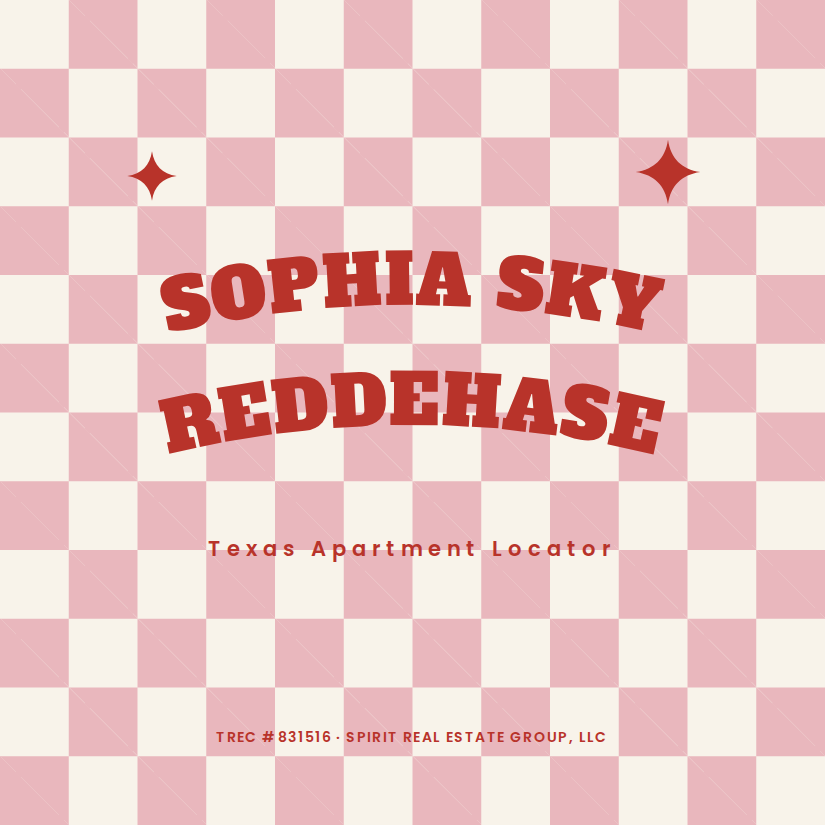
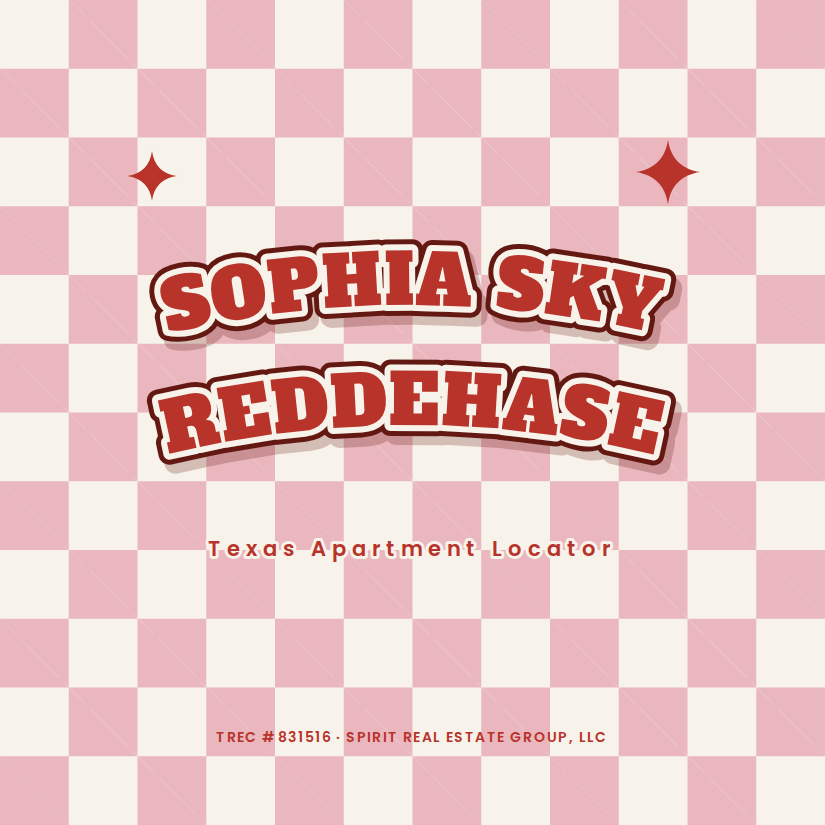
Sticker-build the wordmarks the first contrast pass missed
That pass only matched a wordmark written as one stroked group. The warped
cards draw the name as a shadow group plus a face group, and the gingham cards
use arced textPaths, so neither matched -- and those were exactly the ones still
blending: olive green on orange checks, red on pink gingham.

Both now get the same four-layer build as the rest (cast shadow, dark keyline,
light halo, coloured face), so the letterform keeps a hard edge whichever square
sits behind it. The gingham role line, red on pink at roughly 3.4:1, gets the
cream halo too.

Claude-Session: https://claude.ai/code/session_011qu4FuRugYoyL33SPjMiTo

diff --git a/business_cards/cards_v2/13_exact_gingham_square/front.html b/business_cards/cards_v2/13_exact_gingham_square/front.html
@@ -41,13 +41,32 @@
         <path id="arcB" d="M 112 470 Q 412 380 712 470" fill="none"/>
       </defs>
 
-      <g font-family="Alfa Slab One" font-size="70" fill="#b8332a" letter-spacing="1.5">
+      <g font-family="Alfa Slab One" font-size="70" letter-spacing="1.5">
+        <g stroke="#631812" stroke-width="22" fill="#631812" opacity="0.24"
+           stroke-linejoin="round" paint-order="stroke" transform="translate(6,9)">
         <text><textPath href="#arcA" startOffset="50%" text-anchor="middle">SOPHIA SKY</textPath></text>
         <text><textPath href="#arcB" startOffset="50%" text-anchor="middle">REDDEHASE</textPath></text>
+        </g>
+        <g stroke="#631812" stroke-width="22" fill="#631812"
+           stroke-linejoin="round" paint-order="stroke">
+        <text><textPath href="#arcA" startOffset="50%" text-anchor="middle">SOPHIA SKY</textPath></text>
+        <text><textPath href="#arcB" startOffset="50%" text-anchor="middle">REDDEHASE</textPath></text>
+        </g>
+        <g stroke="#f8f3ea" stroke-width="12" fill="#f8f3ea"
+           stroke-linejoin="round" paint-order="stroke">
+        <text><textPath href="#arcA" startOffset="50%" text-anchor="middle">SOPHIA SKY</textPath></text>
+        <text><textPath href="#arcB" startOffset="50%" text-anchor="middle">REDDEHASE</textPath></text>
+        </g>
+        <g fill="#b8332a">
+        <text><textPath href="#arcA" startOffset="50%" text-anchor="middle">SOPHIA SKY</textPath></text>
+        <text><textPath href="#arcB" startOffset="50%" text-anchor="middle">REDDEHASE</textPath></text>
+        </g>
       </g>
 
       <text x="412" y="556" text-anchor="middle"
-            font-family="Poppins" font-weight="600" font-size="21" letter-spacing="6" fill="#b8332a">Texas Apartment Locator</text>
+            font-family="Poppins" font-weight="600" font-size="21" letter-spacing="6"
+            stroke="#f8f3ea" stroke-width="6" stroke-linejoin="round" paint-order="stroke"
+            fill="#b8332a">Texas Apartment Locator</text>
 
       <g fill="#b8332a">
         <path transform="translate(126,150) scale(1.3)" d="M20 1 C21.6 12 28 18.4 39 20 C28 21.6 21.6 28 20 39 C18.4 28 12 21.6 1 20 C12 18.4 18.4 12 20 1 Z"/>

diff --git a/business_cards/cards_v2/9_pink_gingham/front.html b/business_cards/cards_v2/9_pink_gingham/front.html
@@ -66,13 +66,32 @@
       </defs>
 
       <!-- name on two gentle arcs, as on the reference -->
-      <g font-family="Alfa Slab One" font-size="82" fill="#b8332a" letter-spacing="2">
+      <g font-family="Alfa Slab One" font-size="82" letter-spacing="2">
+        <g stroke="#631812" stroke-width="22" fill="#631812" opacity="0.24"
+           stroke-linejoin="round" paint-order="stroke" transform="translate(6,9)">
         <text><textPath href="#arcA" startOffset="50%" text-anchor="middle">SOPHIA SKY</textPath></text>
         <text><textPath href="#arcB" startOffset="50%" text-anchor="middle">REDDEHASE</textPath></text>
+        </g>
+        <g stroke="#631812" stroke-width="22" fill="#631812"
+           stroke-linejoin="round" paint-order="stroke">
+        <text><textPath href="#arcA" startOffset="50%" text-anchor="middle">SOPHIA SKY</textPath></text>
+        <text><textPath href="#arcB" startOffset="50%" text-anchor="middle">REDDEHASE</textPath></text>
+        </g>
+        <g stroke="#f8f3ea" stroke-width="12" fill="#f8f3ea"
+           stroke-linejoin="round" paint-order="stroke">
+        <text><textPath href="#arcA" startOffset="50%" text-anchor="middle">SOPHIA SKY</textPath></text>
+        <text><textPath href="#arcB" startOffset="50%" text-anchor="middle">REDDEHASE</textPath></text>
+        </g>
+        <g fill="#b8332a">
+        <text><textPath href="#arcA" startOffset="50%" text-anchor="middle">SOPHIA SKY</textPath></text>
+        <text><textPath href="#arcB" startOffset="50%" text-anchor="middle">REDDEHASE</textPath></text>
+        </g>
       </g>
 
       <text x="562" y="522" text-anchor="middle"
-            font-family="Poppins" font-weight="700" font-size="24" letter-spacing="8" fill="#b8332a">TEXAS APARTMENT LOCATOR</text>
+            font-family="Poppins" font-weight="700" font-size="24" letter-spacing="8"
+            stroke="#f8f3ea" stroke-width="6" stroke-linejoin="round" paint-order="stroke"
+            fill="#b8332a">TEXAS APARTMENT LOCATOR</text>
 
       <!-- little red stars, as on the reference -->
       <g fill="#b8332a">

diff --git a/business_cards/cards_v2/8_warped_checkers/front.html b/business_cards/cards_v2/8_warped_checkers/front.html
@@ -76,15 +76,26 @@
       <svg width="1050" height="400" viewBox="0 0 1050 400" xmlns="http://www.w3.org/2000/svg">
         <!-- offset shadow copy, then the green face on top -->
         <g font-family="Bagel Fat One" font-size="126" text-anchor="middle">
-          <g fill="#3f5a2c" opacity="0.55" transform="translate(7,8)">
+        <g stroke="#2b3d1e" stroke-width="30" fill="#2b3d1e" opacity="0.24"
+           stroke-linejoin="round" paint-order="stroke" transform="translate(6,9)">
             <text x="525" y="118">sophia sky</text>
             <text x="525" y="256">reddehase</text>
-          </g>
-          <g fill="#7a9b52">
-            <text x="525" y="118">sophia sky</text>
-            <text x="525" y="256">reddehase</text>
-          </g>
         </g>
+        <g stroke="#2b3d1e" stroke-width="30" fill="#2b3d1e"
+           stroke-linejoin="round" paint-order="stroke">
+            <text x="525" y="118">sophia sky</text>
+            <text x="525" y="256">reddehase</text>
+        </g>
+        <g stroke="#f7e6c9" stroke-width="17" fill="#f7e6c9"
+           stroke-linejoin="round" paint-order="stroke">
+            <text x="525" y="118">sophia sky</text>
+            <text x="525" y="256">reddehase</text>
+        </g>
+        <g fill="#7a9b52">
+            <text x="525" y="118">sophia sky</text>
+            <text x="525" y="256">reddehase</text>
+        </g>
+      </g>
         <text x="525" y="330" text-anchor="middle"
               font-family="Poppins" font-weight="700" font-size="25" letter-spacing="7.5"
               stroke="#3f5a2c" stroke-width="7" stroke-linejoin="round" paint-order="stroke" fill="#f7e6c9">TEXAS APARTMENT LOCATOR</text>

diff --git a/business_cards/cards_v2/12_exact_warped_checks/back.html b/business_cards/cards_v2/12_exact_warped_checks/back.html
@@ -102,15 +102,26 @@
     <div class="name">
       <svg width="900" height="260" viewBox="0 0 900 260" xmlns="http://www.w3.org/2000/svg">
         <g font-family="Bagel Fat One" font-size="92">
-          <g fill="#3f5a2c" opacity="0.55" transform="translate(6,7)">
+        <g stroke="#2b3d1e" stroke-width="30" fill="#2b3d1e" opacity="0.24"
+           stroke-linejoin="round" paint-order="stroke" transform="translate(6,9)">
             <text x="0" y="92">sophia sky</text>
             <text x="0" y="192">reddehase</text>
-          </g>
-          <g fill="#7a9b52">
-            <text x="0" y="92">sophia sky</text>
-            <text x="0" y="192">reddehase</text>
-          </g>
         </g>
+        <g stroke="#2b3d1e" stroke-width="30" fill="#2b3d1e"
+           stroke-linejoin="round" paint-order="stroke">
+            <text x="0" y="92">sophia sky</text>
+            <text x="0" y="192">reddehase</text>
+        </g>
+        <g stroke="#f7e6c9" stroke-width="17" fill="#f7e6c9"
+           stroke-linejoin="round" paint-order="stroke">
+            <text x="0" y="92">sophia sky</text>
+            <text x="0" y="192">reddehase</text>
+        </g>
+        <g fill="#7a9b52">
+            <text x="0" y="92">sophia sky</text>
+            <text x="0" y="192">reddehase</text>
+        </g>
+      </g>
         <text x="6" y="240" font-family="Poppins" font-weight="700" font-size="21" letter-spacing="6.5"
               stroke="#3f5a2c" stroke-width="6" stroke-linejoin="round" paint-order="stroke"
               fill="#f7e6c9">TEXAS APARTMENT LOCATOR</text>

diff --git a/business_cards/cards_v2/8_warped_checkers/back.html b/business_cards/cards_v2/8_warped_checkers/back.html
@@ -127,13 +127,22 @@
     <div class="name">
       <svg width="1050" height="200" viewBox="0 0 1050 200" xmlns="http://www.w3.org/2000/svg">
         <g font-family="Bagel Fat One" font-size="86" text-anchor="middle">
-          <g fill="#3f5a2c" opacity="0.55" transform="translate(6,7)">
+        <g stroke="#2b3d1e" stroke-width="30" fill="#2b3d1e" opacity="0.24"
+           stroke-linejoin="round" paint-order="stroke" transform="translate(6,9)">
             <text x="525" y="80">sophia sky reddehase</text>
-          </g>
-          <g fill="#7a9b52">
-            <text x="525" y="80">sophia sky reddehase</text>
-          </g>
         </g>
+        <g stroke="#2b3d1e" stroke-width="30" fill="#2b3d1e"
+           stroke-linejoin="round" paint-order="stroke">
+            <text x="525" y="80">sophia sky reddehase</text>
+        </g>
+        <g stroke="#f7e6c9" stroke-width="17" fill="#f7e6c9"
+           stroke-linejoin="round" paint-order="stroke">
+            <text x="525" y="80">sophia sky reddehase</text>
+        </g>
+        <g fill="#7a9b52">
+            <text x="525" y="80">sophia sky reddehase</text>
+        </g>
+      </g>
         <text x="525" y="140" text-anchor="middle"
               font-family="Poppins" font-weight="700" font-size="22" letter-spacing="6.5"
               stroke="#3f5a2c" stroke-width="6" stroke-linejoin="round" paint-order="stroke" fill="#f7e6c9">TEXAS APARTMENT LOCATOR</text>

diff --git a/business_cards/cards_v2/12_exact_warped_checks/front.html b/business_cards/cards_v2/12_exact_warped_checks/front.html
@@ -58,7 +58,18 @@
 
     <svg class="type" width="1125" height="675" viewBox="0 0 1125 675" xmlns="http://www.w3.org/2000/svg">
       <g font-family="Bagel Fat One" font-size="130" text-anchor="middle">
-        <g fill="#3f5a2c" opacity="0.55" transform="translate(7,8)">
+        <g stroke="#2b3d1e" stroke-width="30" fill="#2b3d1e" opacity="0.24"
+           stroke-linejoin="round" paint-order="stroke" transform="translate(6,9)">
+          <text x="562" y="296">sophia sky</text>
+          <text x="562" y="438">reddehase</text>
+        </g>
+        <g stroke="#2b3d1e" stroke-width="30" fill="#2b3d1e"
+           stroke-linejoin="round" paint-order="stroke">
+          <text x="562" y="296">sophia sky</text>
+          <text x="562" y="438">reddehase</text>
+        </g>
+        <g stroke="#f7e6c9" stroke-width="17" fill="#f7e6c9"
+           stroke-linejoin="round" paint-order="stroke">
           <text x="562" y="296">sophia sky</text>
           <text x="562" y="438">reddehase</text>
         </g>
